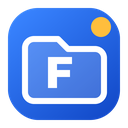
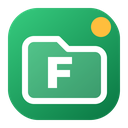
アイコンとファビコンの色を青から緑系に変更し、似たアプリと区別しやすくする
Claude-Session: https://claude.ai/code/session_01KwfA8sG6DyQRwrxaWGAx6q

diff --git a/web/app.js b/web/app.js
@@ -1,4 +1,4 @@
-const APP_VERSION = '2.4.0';
+const APP_VERSION = '2.4.1';
 const state = { items: [], query: '', view: 'all', tag: '', sort: 'registered-desc', tagSortKeys: {}, backupSignatures: {}, batchPaths: [], batchKeepTabs: true };
 const $ = (selector) => document.querySelector(selector);
 const dialog = $('#pathDialog');
